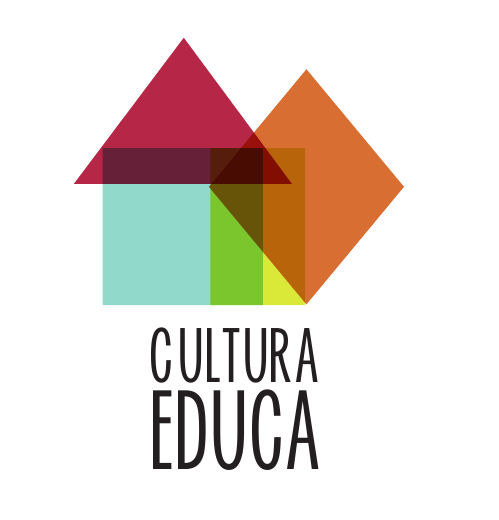
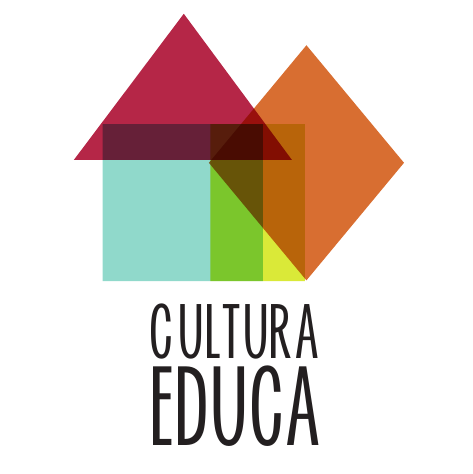
Adição do projeto 'My Portfolio' e Ajustes gerais

Changed region(s): [[0.148, 0.0295, 0.8584, 0.9451], [0.5624, 0.1477, 0.592, 0.2068]]

diff --git a/src/components/pages/Projects.jsx b/src/components/pages/Projects.jsx
@@ -1,13 +1,14 @@
 import culturaeduca from "../../img/culturaeduca.png";
 import robot_of_love from "../../img/robot-of-love.png";
+import portfolio from "../../img/portfolio.png";
 
 function Projects() {
   return (
     <section className="flex flex-col items-center w-screen">
-      <div className="flex flex-wrap max-w-4xl p-3 bg-blue rounded">
+      <div className="flex flex-wrap max-w-4xl mb-16 p-3 bg-blue rounded">
         <div className="flex flex-col mr-6">
           <img
-            className="rounded w-[300px]"
+            className="rounded w-[250px]"
             alt="CulturaEduca"
             src={culturaeduca}
           />
@@ -27,11 +28,6 @@ function Projects() {
               Main technologies:
             </p>
             <div className="flex flex-wrap justify-end">
-              <img
-                className="p-1 m-1 h-20 bg-salmon rounded"
-                alt="python"
-                src="https://cdn.jsdelivr.net/gh/devicons/devicon/icons/python/python-original-wordmark.svg"
-              />
               <img
                 className="p-1 m-1 h-20 bg-salmon rounded"
                 alt="django"
@@ -57,10 +53,10 @@ function Projects() {
         </div>
       </div>
 
-      <div className="flex flex-wrap max-w-4xl my-12 p-3 bg-blue rounded">
+      <div className="flex flex-wrap max-w-4xl mb-16 p-3 bg-blue rounded">
         <div className="flex flex-col mr-6">
           <img
-            className="rounded w-[300px]"
+            className="rounded w-[250px]"
             alt="Robot of Love"
             src={robot_of_love}
           />
@@ -89,6 +85,44 @@ function Projects() {
                 className="p-1 m-1 h-20 bg-salmon rounded"
                 alt="selenium"
                 src="https://cdn.jsdelivr.net/gh/devicons/devicon/icons/selenium/selenium-original.svg"
+              />
+            </div>
+          </div>
+        </div>
+      </div>
+
+      <div className="flex flex-wrap max-w-4xl mb-8 p-3 bg-blue rounded">
+        <div className="flex flex-col mr-6">
+          <img className="rounded w-[250px]" alt="Portfolio" src={portfolio} />
+          <p className="text-center p-1 font-bold text-[30px]">My Portfolio</p>
+        </div>
+
+        <div className="flex flex-col flex-1 mt-2 justify-between">
+          <p className="text-[22px]">
+            This portfolio was developed using React, a Javascript library, in
+            addition to the Vite build tool. For styling, the option chosen was
+            Tailwind, a CSS framework.
+          </p>
+
+          <div className="flex flex-col mt-6">
+            <p className="font-bold text-[24px] text-right">
+              Main technologies:
+            </p>
+            <div className="flex flex-wrap justify-end">
+              <img
+                className="p-1 m-1 h-20 bg-salmon rounded"
+                alt="javascript"
+                src="https://cdn.jsdelivr.net/gh/devicons/devicon/icons/javascript/javascript-original.svg"
+              />
+              <img
+                className="p-1 m-1 h-20 bg-salmon rounded"
+                alt="react"
+                src="https://cdn.jsdelivr.net/gh/devicons/devicon/icons/react/react-original-wordmark.svg"
+              />
+              <img
+                className="p-1 m-1 h-20 bg-salmon rounded"
+                alt="tailwindcss"
+                src="https://cdn.jsdelivr.net/gh/devicons/devicon/icons/tailwindcss/tailwindcss-original-wordmark.svg"
               />
             </div>
           </div>
